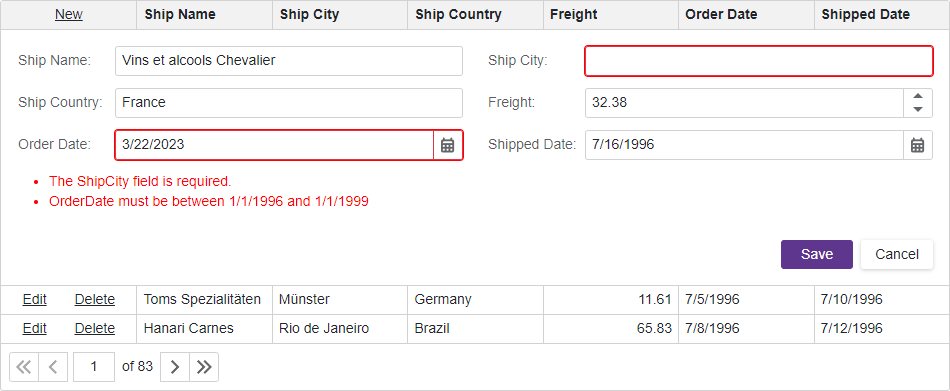
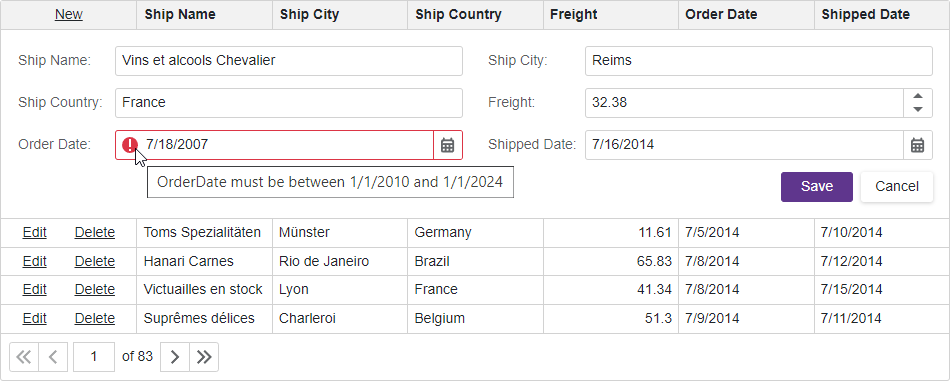
update to v23.1.4 (#4)

diff --git a/CS/Models/Invoice.cs b/CS/Models/Invoice.cs
@@ -17,11 +17,11 @@ namespace InstantFeedback.Models {
 
         public decimal? Freight { get; set; }
 
-        [Range(typeof(DateTime), "1/1/1996", "1/1/1999",
+        [Range(typeof(DateTime), "1/1/2010", "1/1/2024",
         ErrorMessage = "OrderDate must be between {1:d} and {2:d}")]
         public DateTime? OrderDate { get; set; }
 
-        [Range(typeof(DateTime), "1/1/1996", "1/1/1999",
+        [Range(typeof(DateTime), "1/1/2010", "1/1/2024",
         ErrorMessage = "ShippedDate must be between {1:d} and {2:d}")]
         public DateTime? ShippedDate { get; set; }
     }

diff --git a/README.md b/README.md
@@ -73,15 +73,13 @@ The Grid component supports multiple [edit modes](https://docs.devexpress.com/Bl
 
 1. Declare a [DxGridCommandColumn](https://docs.devexpress.com/Blazor/DevExpress.Blazor.DxGridCommandColumn) object in the Grid's [Columns](https://docs.devexpress.com/Blazor/DevExpress.Blazor.DxGrid.Columns) template. This column displays the predefined **New**, **Edit**, and **Delete** command buttons.
 
-2. Use the [EditFormTemplate](https://docs.devexpress.com/Blazor/DevExpress.Blazor.DxGrid.EditFormTemplate) property to define edit form content. Add the [ValidationSummary](https://learn.microsoft.com/en-us/dotnet/api/microsoft.aspnetcore.components.forms.validationsummary?view=aspnetcore-7.0) component to the edit form to validate user input based on [data annotation attributes](https://learn.microsoft.com/en-us/aspnet/core/mvc/models/validation?view=aspnetcore-7.0) defined in the model.
+2. Use the [EditFormTemplate](https://docs.devexpress.com/Blazor/DevExpress.Blazor.DxGrid.EditFormTemplate) property to define edit form content.
 
 3. The [EditModelSaving](https://docs.devexpress.com/Blazor/DevExpress.Blazor.DxGrid.EditModelSaving) event occurs after a user submits the edit form and validation is passed. Use the [EditModel](https://docs.devexpress.com/Blazor/DevExpress.Blazor.GridEditModelSavingEventArgs.EditModel) event argument to access the edit model that stores all changes. Copy the values of all edit model fields that can be changed to the corresponding fields of the [DataItem](https://docs.devexpress.com/Blazor/DevExpress.Blazor.GridEditModelSavingEventArgs.DataItem) event argument, then save changes to the bound data source. To assign all edit model field values to the data item fields simultaneously, you can call the [AutoMapper](https://github.com/AutoMapper/AutoMapper) library's `Map` method.
 
 4. The [DataItemDeleting](https://docs.devexpress.com/Blazor/DevExpress.Blazor.DxGrid.DataItemDeleting) event occurs once a user confirms the delete operation in the delete confirmation dialog. In the event handler, check user input and access permissions and post changes to the data source.
 
 5. If your data object has a primary key, assign it to the [KeyFieldName](https://docs.devexpress.com/Blazor/DevExpress.Blazor.DxGrid.KeyFieldName) or [KeyFieldNames](https://docs.devexpress.com/Blazor/DevExpress.Blazor.DxGrid.KeyFieldNames) property. If you do not specify these properties, the Grid uses standard [.NET value equality comparison](https://learn.microsoft.com/en-us/dotnet/csharp/programming-guide/statements-expressions-operators/equality-comparisons) to identify data items.
-
-Refer to the following topic for more information on how to enable edit operations and validate user input in the Grid control: [Edit Data and Validate Input](https://docs.devexpress.com/Blazor/403454/grid/edit-data-and-validate-input).
 
 ## Files to Review
 
@@ -94,7 +92,8 @@ Refer to the following topic for more information on how to enable edit operatio
 
 - [Bind to Data](https://docs.devexpress.com/Blazor/403737/grid/bind-to-data)
 - [Bind Components to Data with Entity Framework Core](https://docs.devexpress.com/Blazor/403167/common-concepts/bind-data-grid-to-data-from-entity-framework-core)
-- [Edit Data and Validate Input](https://docs.devexpress.com/Blazor/403454/grid/edit-data-and-validate-input)
+- [Edit Data](https://docs.devexpress.com/Blazor/403454/components/grid/edit-data)
+- [Validate User Input](https://docs.devexpress.com/Blazor/404443/components/grid/validation)
 - [Examples](https://docs.devexpress.com/Blazor/404035/grid/examples)
 
 ## More Examples
